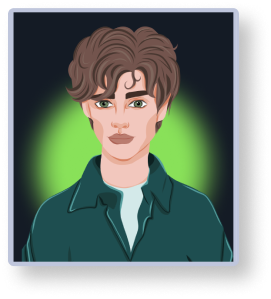
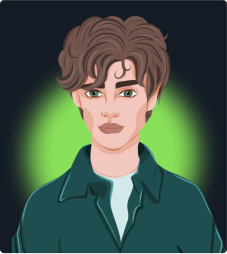
fix: fix images in startBlock

diff --git a/src/assets/styles/variables.css b/src/assets/styles/variables.css
@@ -19,12 +19,17 @@
 	--secondary-text-gray-dark: #8990a5;
 
 	--secondary-gradient-green: linear-gradient(
-			302deg,
-			#1e4e4e 16.05%,
-			#1f2431 75.16%
-		)
-		--secondary-gradient-green-light:
-		linear-gradient(0deg, #b9f598 0%, #b9f598 100%);
+		302deg,
+		#1e4e4e 16.05%,
+		#1f2431 75.16%
+	);
+
+	--secondary-gradient-green-light: linear-gradient(
+		0deg,
+		#b9f598 0%,
+		#b9f598 100%
+	);
+
 	--secondary-gradient-green-dark: linear-gradient(
 		329deg,
 		rgba(30, 78, 78, 0.6) -13.26%,
@@ -38,6 +43,6 @@
 	--font-grey: var(--secondary-text-gray);
 
 	/* shadows  */
-	/* --bx-primary-green: 0 4px 4px rgba(var(--primary-green), 0.25);
-  --bx-16: 0 3px 6px rgba(0, 0, 0, 0.16); */
+	/* --bx-primary-green: 0 4px 4px rgba(var(--primary-green), 0.25); */
+	--bx-12: 12px 12px 20px 0px rgba(0, 0, 0, 0.25);
 }

diff --git a/src/pages/startPage.vue b/src/pages/startPage.vue
@@ -24,13 +24,15 @@
       <template v-slot:contentImg>
         <img src='../../public/images/characterAvatarWomen.png' 
           alt='character avatar'  
-          @click.left='chooseWomen'
+          draggable='false'
+          @click='chooseWomen'
         />
 
         <img 
           src='../../public/images/characterAvatarMen.png' 
           alt='character avatar'
-          @click.left='chooseMen'
+          draggable='false'
+          @click='chooseMen'
         />
       </template>
     </startBlock>

diff --git a/src/components/ui/startBlock/startBlock.css b/src/components/ui/startBlock/startBlock.css
@@ -54,11 +54,16 @@
 
 .contentImg img {
 	cursor: pointer;
+
+	border-radius: 4px;
+	border: 2px solid #bfc6dc;
+	box-shadow: var(--bx-12);
+	transition: border-color 0.3s ease-in-out;
 }
 
-/* .contentImg img:hover {
-	background-color: var(--primary-green);
-} */
+.contentImg img:hover {
+	border-color: var(--primary-green);
+}
 
 .wrapperBtn {
 	margin-top: 40px;

diff --git a/src/components/ui/button/startButton/startButton.vue b/src/components/ui/button/startButton/startButton.vue
@@ -1,5 +1,5 @@
 <template>
-  <button :class='styles.btn' @click.left='nextFunc'>
+  <button :class='styles.btn' @click='nextFunc' aria-label='skip button'>
     <slot></slot>
   </button>
 </template>
